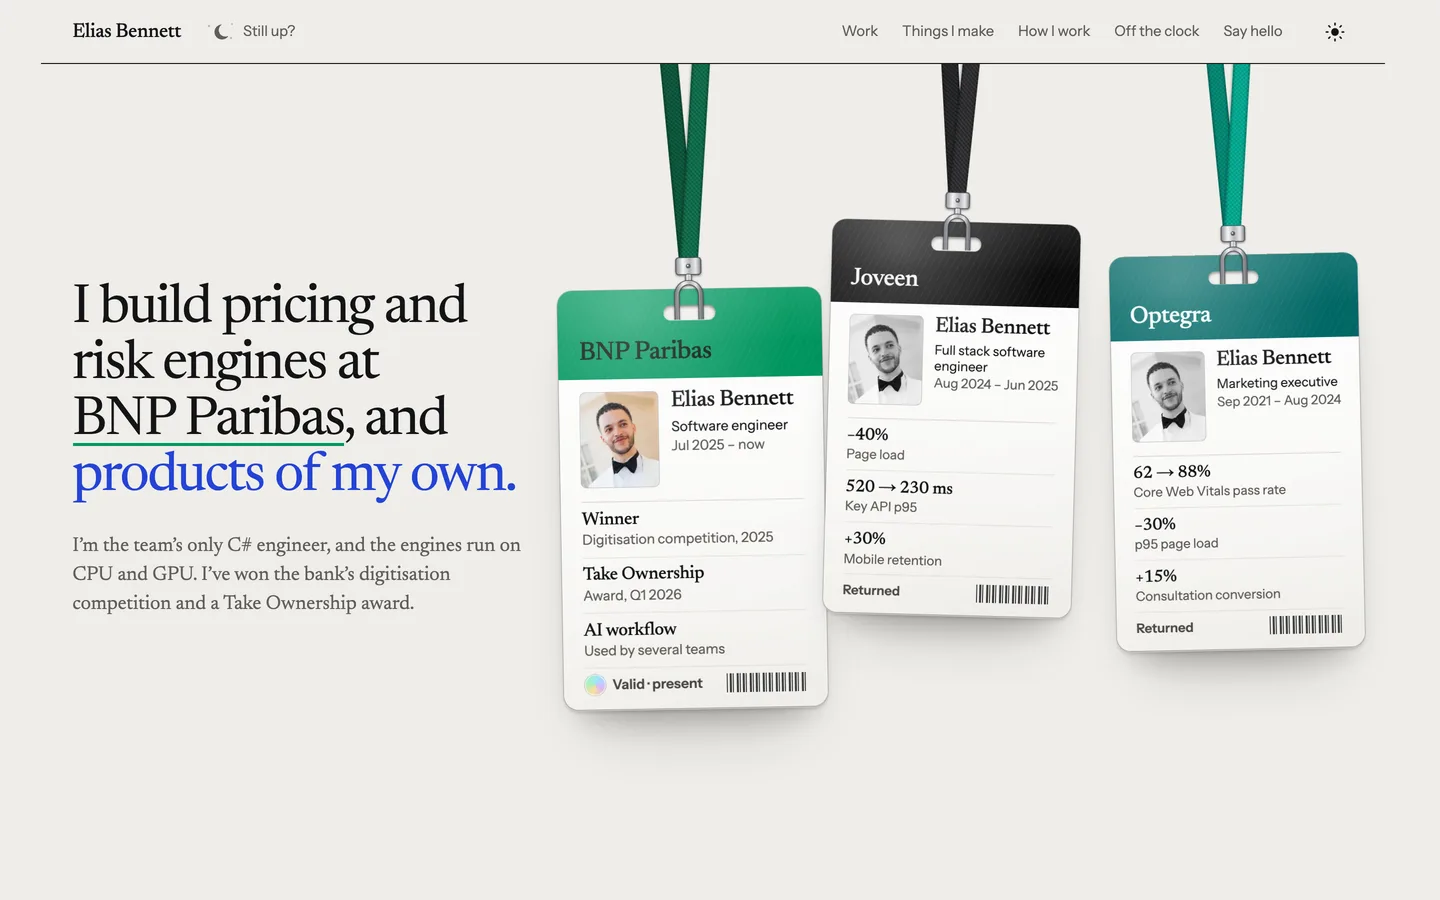
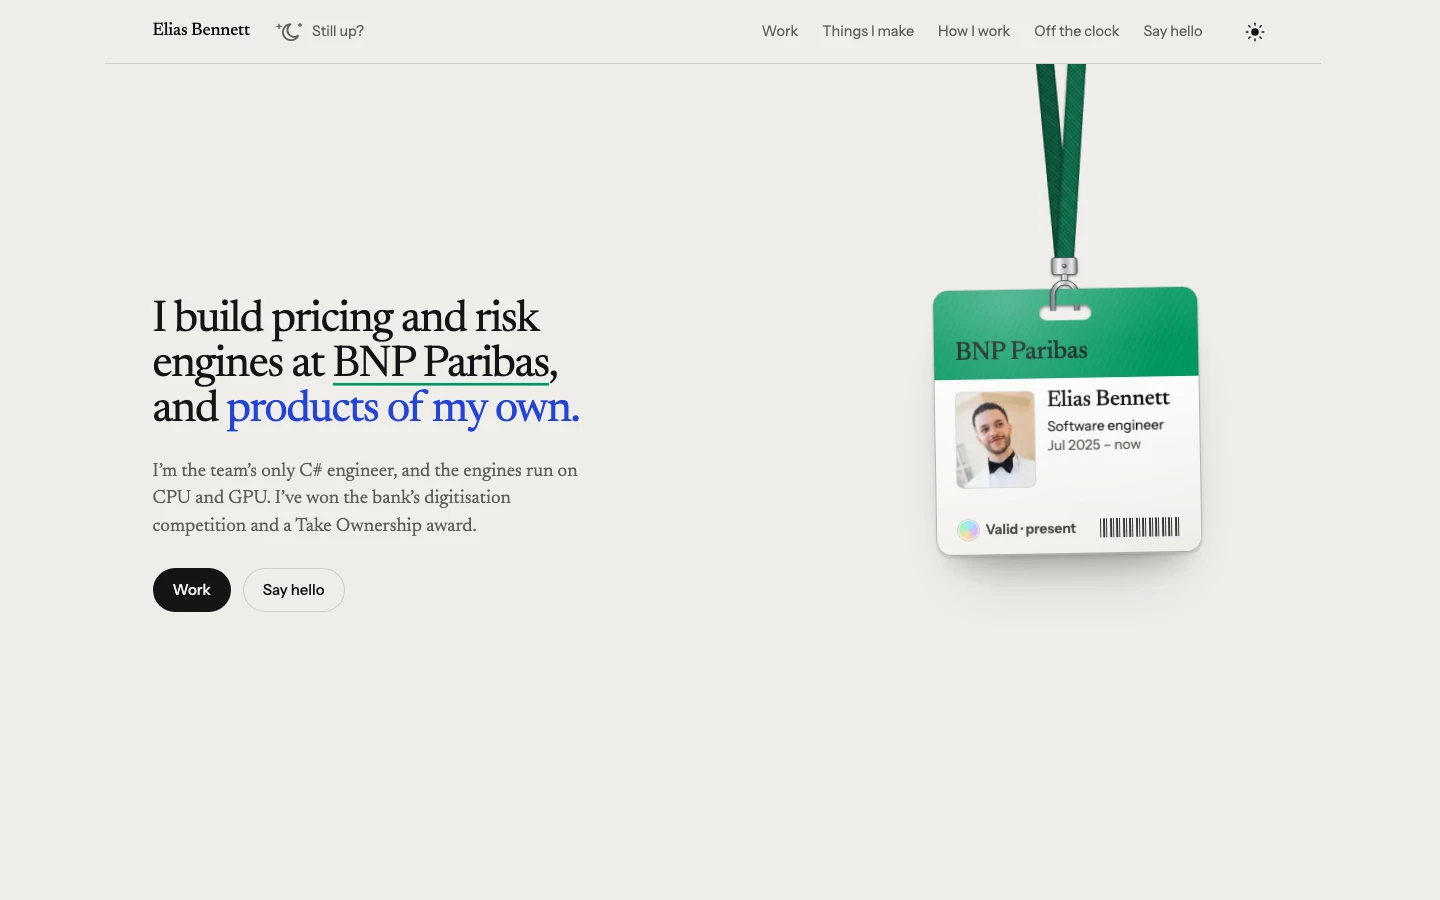
Update README, homepage screenshots and audit record after final pass

Changed region(s): [[0.0312, 0.0311, 0.9688, 0.7467], [0.4062, 0.56, 0.5625, 0.84], [0.0625, 0.0311, 0.25, 0.0622]]

diff --git a/README.md b/README.md
@@ -2,15 +2,15 @@
 
 The source of [eliasb.dev](https://www.eliasb.dev), my personal site: what I build, how I work, and what my time looks like away from the keyboard.
 
-![The homepage at desktop width in the light theme: the headline "I build pricing and risk engines at BNP Paribas, and products of my own." beside three staff passes hanging on lanyards, for BNP Paribas, Joveen and Optegra.](docs/screenshots/passes-and-panels-desktop-light.webp)
+![The homepage at desktop width in the light theme: the headline "I build pricing and risk engines at BNP Paribas, and products of my own." beside my current BNP Paribas staff pass hanging on a green lanyard.](docs/screenshots/passes-and-panels-desktop-light.webp)
 
-I designed the site as **passes and panels**. The first screen is my opening line and the staff passes from my three employers, drawn as real ID cards with their points printed on them. After that, each subject has a panel sized by how much it matters, in its own colour, with its proof drawn on it: a simulation, bars to scale, a screenshot. The page is complete from its first frame, and nothing moves unless it means something. The terms I use in the code and docs are defined in [`GLOSSARY.md`](GLOSSARY.md), and the design contract is [`docs/design/DESIGN.md`](docs/design/DESIGN.md).
+I designed the site as **passes and panels**. The first screen is my opening line and my current **Staff pass** (BNP Paribas), hanging from the header as a real ID card (and in 3D where WebGL 2 is available). After that, each subject has a panel sized by how much it matters, in its own colour, with its proof drawn on it: bars to scale, a simulation, a working slice of a product, or a framed screenshot. The page is complete from its first frame, and nothing moves unless it means something. The terms I use in the code and docs are defined in [`GLOSSARY.md`](GLOSSARY.md), and the design contract is [`docs/design/DESIGN.md`](docs/design/DESIGN.md).
 
 | Light | Dark |
 | --- | --- |
-| <img src="docs/screenshots/passes-and-panels-phone-light.webp" alt="The homepage at phone width in the light theme: the same headline above the three staff passes." width="260"> | <img src="docs/screenshots/passes-and-panels-phone-dark.webp" alt="The homepage at phone width in the dark theme, with the same headline and passes on a near-black page." width="260"> |
+| <img src="docs/screenshots/passes-and-panels-phone-light.webp" alt="The homepage at phone width in the light theme: the opening headline and actions above the BNP Paribas staff pass." width="260"> | <img src="docs/screenshots/passes-and-panels-phone-dark.webp" alt="The homepage at phone width in the dark theme, with the same headline and BNP Paribas staff pass on a near-black page." width="260"> |
 
-![The homepage at desktop width in the dark theme, with the same headline and staff passes on a near-black page.](docs/screenshots/passes-and-panels-desktop-dark.webp)
+![The homepage at desktop width in the dark theme, with the opening headline beside the BNP Paribas staff pass on a near-black page.](docs/screenshots/passes-and-panels-desktop-dark.webp)
 
 ## How the site changed
 
@@ -38,7 +38,7 @@ A well-kept studio wall that I pin things to: the work pinned carefully and clea
 
 ![Stretch: a neutral page with "ELIAS BENNETT" in huge cobalt condensed capitals, the headline "I build pricing and risk engines at BNP Paribas, and products of my own.", and a tilted portrait labelled "Based in London".](docs/screenshots/history/stretch.webp)
 
-A neutral page with one cobalt accent used large, a condensed display face at poster scale, each project in the colours of its own interface, and a two-act typed entrance. My employment came to lead the site, with a Role story for each employer. It grew by addition: every pass added a well-made object and none took one away, until the homepage was a stack of set pieces. The quiet index keeps the content and the data layer, and adds a [removal rule](docs/design/DESIGN.md#the-removal-rule) so the page stays small.
+A neutral page with one cobalt accent used large, a condensed display face at poster scale, each project in the colours of its own interface, and a two-act typed entrance. My employment came to lead the site, with a Role story for each employer. It grew by addition: every pass added a well-made object and none took one away, until the homepage was a stack of set pieces. The quiet index kept the content and the data layer, and introduced a removal rule ([`QUIET-INDEX.md`](docs/design/history/QUIET-INDEX.md)) so the page stayed small.
 
 ### The quiet index (October to November 2026)
 
@@ -48,32 +48,34 @@ One 600 px reading column, one 300 px margin, rows instead of set pieces, closer
 
 ### Passes and panels (November 2026 to now)
 
-The live site, at the top of this page. The passes are the first thing you see, and each subject's proof is drawn on its panel rather than hidden behind a word. The quiet index's content, data layer and length budget carry over.
+The live site, at the top of this page. The opening hangs the single current BNP Paribas pass, and each subject draws its proof directly on its panel rather than hiding it behind a hover or click. Refined in late November 2026 with full-bleed tonal bands, concentric optical bezels, sticky chapter rails on long-form pages, and a full readiness audit ([`docs/review/APP-AUDIT.md`](docs/review/APP-AUDIT.md)).
 
 ## What is on the site
 
 | Route | What it is |
 | --- | --- |
-| `/` | The homepage: an opening line, then Work, Things I make, How I work, Off the clock and Say hello. It is complete from its first frame. |
-| `/work/bnp-paribas`, `/work/joveen`, `/work/optegra` | Role stories: one page per employer, opening on its staff pass, with its figures drawn on panels in its colour. |
-| `/things-i-make` | The archive of every project, newest first. `/work` redirects here. |
-| `/things-i-make/threshold`, `/things-i-make/argus-risk`, `/things-i-make/flowtime` | Case studies, each a short visual story with a write-up and a PRD. |
-| `/resume` | The résumé, with a PDF (`public/Elias-Bennett-Resume.pdf`) that a check keeps in step with the page. |
+| `/` | The homepage: the opening and current Staff pass, then Work, Things I make, Where I'm headed & How I work, Off the clock, and Say hello. Complete from its first frame. |
+| `/work/bnp-paribas`, `/work/joveen`, `/work/optegra` | Role stories: one page per employer, opening on its coloured hero and hanging Staff pass, with a sticky chapter rail, Problem and Decision cards, to-scale comparisons and BNP Paribas's Monte Carlo simulation. |
+| `/things-i-make` | The Work archive of every project, newest first. `/work` redirects here permanently. |
+| `/things-i-make/threshold`, `/things-i-make/argus-risk`, `/things-i-make/flowtime` | Case studies: an open-ground header above a project-coloured exhibition stage, sticky chapter rail, interactive working figures and a PRD card. |
+| `/resume` | The résumé sheet, with a committed PDF (`public/Elias-Bennett-Resume.pdf`) that `pnpm verify:resume` keeps in step with the page. |
 | `/index.md`, `/llms.txt` | The homepage as Markdown, and a plain-text guide for language models. |
-| 404 | A custom not-found page that shows the address that was missed and five places to go. |
+| 404 | A custom not-found page with a Visitor pass showing the address asked for and five links back to the homepage. |
 
-`/about` redirects to `/#work`, and `/lab` and `/library` redirect to `/#off-the-clock`, so old links keep working.
+`/about` redirects to `/#work`, `/lab` and `/library` redirect to `/#off-the-clock`, `/work` and `/work/<case-study>` redirect to `/things-i-make`, and `/favicon.ico` redirects to `/icon1.png`.
 
-**Off the clock** is the only section driven by outside data. It opens with a year of my GitHub contributions, then shows my training week (authored), what I'm reading (Goodreads), what I last watched (Letterboxd), a curiosity from this week in history (Wikipedia's "On this day" feeds), and what I'm making now.
+**Off the clock** is the only section driven by outside data. It opens with Today's workout (authored 7-day schedule and running photo), then what I'm reading (Goodreads) and last watched (Letterboxd), a curiosity from this week in history (Wikipedia's "On this day" and Commons), and GitHub, the past year (with What I'm building now above the contribution grid).
 
 ## Stack
 
 - [Next.js](https://nextjs.org) 16 (App Router) and React 19, written in TypeScript
-- Tailwind CSS 4 for the reset, with the design in plain CSS on custom properties (`src/app/tokens.css`, `parts.css` and a stylesheet per section)
-- Newsreader and Instrument Sans through `next/font` (the Résumé sheet keeps Bricolage Grotesque and JetBrains Mono, which its PDF is drawn in)
-- [Motion](https://motion.dev) for the shared spring that every moving object uses
-- The light and dark setting runs from a small inline script, so the page is served finished and nothing is held at first paint
-- [Playwright](https://playwright.dev) and axe for end-to-end, accessibility and contrast tests
+- Tailwind CSS 4 for the reset, with the design in plain CSS custom properties (`src/app/tokens.css`, `parts.css`, and route-split stylesheets)
+- Self-hosted Newsreader (subsetted variable Latin WOFF2) and Instrument Sans through `next/font`, used across the whole site including the Résumé sheet and PDF
+- [Three.js](https://threejs.org) for the interactive 3D Staff pass, loaded lazily after first interaction or idle so first paint stays fast, with a CSS printed pass fallback
+- CSS custom-property curves (`--out`, `--spring`) for UI motion; [`motion`](https://motion.dev) is a dev-only dependency used by `verify:springs`
+- [`@vercel/speed-insights`](https://vercel.com/docs/speed-insights) on the free tier for real-visitor performance data (no cookies)
+- A small inline script sets light or dark before paint, so nothing flashes or waits on hydration
+- [Playwright](https://playwright.dev) and [`@axe-core/playwright`](https://github.com/dequelabs/axe-core-npm) for end-to-end, visual, forced-colours and WCAG 2.2 AA accessibility tests
 - pnpm 10 and Node 24, deployed on Vercel
 
 The architecture decisions are in [`docs/adr/`](docs/adr).
@@ -117,13 +119,13 @@ Each signal is fetched on the server, never in the browser, with a short timeout
 | Reading | Goodreads RSS | 30 minutes | "Between books." |
 | Last watched | Letterboxd RSS | 15 minutes | "Nothing logged yet." |
 | This week in history | Wikipedia "On this day" and Commons image metadata | 7 days | Saved examples, labelled as such |
-| Now making | The latest public GitHub repository | with the page | Nothing: the row is hidden |
+| Now making | The latest pushed public GitHub repository | 6 hours | Row is omitted (falls back to GitHub profile link if the year is also down) |
 
 The homepage itself revalidates every 15 minutes. The contracts are in [`docs/integrations/SIGNALS.md`](docs/integrations/SIGNALS.md) and the troubleshooting steps in [`docs/runbooks/integration-fallbacks.md`](docs/runbooks/integration-fallbacks.md).
 
 ## Tests
 
-End-to-end tests run against a production build, so build first. The suite covers the first frame, sections, Off the clock, theme, contrast, phone layouts, closer looks, Role stories, case studies, the archive, the résumé, redirects and the 404, with axe on the main pages. It runs in Chromium and WebKit at 320, 390, 820 and 1440 px wide, in light and dark: 16 projects, so run only what you need.
+End-to-end tests run against a production build, so build first. The suite covers first paint, layout shift, motion, forced colours, worst-case data, theme, contrast, phone layouts, Work, Things I make, How I work, Off the clock, Role stories, Case studies, the archive, the résumé, redirects and the 404, with axe (WCAG 2.2 AA) on every public route and interactive open state. It runs in Chromium and WebKit at 320, 390, 820 and 1440 px wide, in light and dark: 16 projects, so run only what you need.
 
 ```bash
 SITE_INDEXABLE=true pnpm build
@@ -133,23 +135,32 @@ pnpm exec playwright test --project=chromium-1440-light e2e/work-archive.spec.ts
 
 Playwright starts `pnpm start` itself on port 3100 (change it with `E2E_PORT`) and sets `BOARD_FIXTURES=1`, which turns on the `/fixtures` pages some specs use. Locally it runs one worker at a time; [`docs/runbooks/local-testing.md`](docs/runbooks/local-testing.md) says what to run and what to avoid on a laptop.
 
-The removal rule is enforced by tests: `e2e/homepage-signoff.spec.ts` fails if the homepage outgrows its length budget or anything but the margin is wider than the column, and `pnpm verify:retired` fails if a retired part of an earlier design comes back.
+`e2e/homepage-signoff.spec.ts` enforces the homepage's length budget (9 screens at 1440 × 900, 12 at 390 × 844), and `pnpm verify:retired` fails if a retired font, token or component from an earlier design comes back.
 
-Other checks, which CI also runs. `pnpm check` runs the first group together:
+Static and build checks run by CI (`pnpm check` runs the first group together):
 
 ```bash
-pnpm lint
-pnpm exec tsc --noEmit
-pnpm verify:signals      # signal adapters and their fallbacks
-pnpm verify:catalogue    # the project catalogue
-pnpm verify:copy         # every string matches docs/content/redesign-copy.md
-pnpm verify:springs      # the site spring matches Motion
-pnpm verify:retired      # nothing retired has come back
-pnpm verify:resume       # the résumé PDF matches the page
-pnpm check:built         # canonical routes and release markup (needs a build)
+pnpm lint                    # eslint with --max-warnings 0
+pnpm exec tsc --noEmit       # strict TypeScript (no unused locals or parameters)
+pnpm verify:signals          # signal adapters, history cache and fallbacks
+pnpm verify:catalogue        # project catalogue and links
+pnpm verify:copy             # site and machine surfaces match docs/content/redesign-copy.md
+pnpm verify:simulation       # Monte Carlo simulation invariants
+pnpm verify:flowtime-break   # Flowtime break calculation
+pnpm verify:springs          # spring module matches Motion's spring
+pnpm verify:craft            # spacing, press, feedback and focus tokens match DESIGN.md
+pnpm verify:type-scale       # type scale and 13 px floor
+pnpm verify:retired          # nothing retired has come back
+pnpm verify:share-assets     # committed share-card assets are fresh
+pnpm verify:resume           # the résumé PDF matches /resume
+pnpm verify:link-check       # offline tests for the weekly external link check
+pnpm verify:playwright-image # Playwright Docker image tag matches pnpm-lock.yaml
+pnpm verify:ci-coverage      # every verify script is wired into CI
+pnpm check:built             # canonical routes, release headers and JS budget (needs a build)
+pnpm verify:first-load       # first-load bytes on a Turbopack build
 ```
 
-CI (`.github/workflows/quality.yml`) builds with webpack (`SITE_INDEXABLE=true pnpm build --webpack`) and splits the Playwright matrix into eight shards. Before pushing to or merging a pull request, read [`docs/runbooks/merging.md`](docs/runbooks/merging.md).
+CI (`.github/workflows/quality.yml`) runs `pnpm check` and `pnpm verify:codex-gate`, checks `pnpm check:built` on a webpack build and `pnpm verify:first-load` on a Turbopack build, and splits the Playwright matrix into eight shards. A separate weekly workflow (`.github/workflows/link-check.yml`) checks external links against production. Before pushing to or merging a pull request, read [`docs/runbooks/merging.md`](docs/runbooks/merging.md).
 
 ## Project documents
 
@@ -157,9 +168,10 @@ CI (`.github/workflows/quality.yml`) builds with webpack (`SITE_INDEXABLE=true p
 - [`docs/design/DESIGN.md`](docs/design/DESIGN.md): the live design contract, and [`docs/design/history/`](docs/design/history) for the directions it replaced
 - [`docs/content/redesign-copy.md`](docs/content/redesign-copy.md): the approved copy
 - [`docs/content/IMAGE-CREDITS.md`](docs/content/IMAGE-CREDITS.md): where each image comes from
+- [`docs/review/APP-AUDIT.md`](docs/review/APP-AUDIT.md): the latest readiness audit, Lighthouse medians and CI gates
 - [`docs/adr/`](docs/adr): architecture decisions
-- [`docs/runbooks/`](docs/runbooks): local testing, merging and integration fallbacks
-- `docs/discovery`, `docs/review` and the earlier specs are history from earlier designs and are kept for reference
+- [`docs/runbooks/`](docs/runbooks): local testing, merging, interruption walk, visual baselines and integration fallbacks
+- `docs/discovery`, `docs/review` and the earlier specs are history from earlier designs and passes, kept for reference
 
 ## Licence and images
 

diff --git a/docs/review/APP-AUDIT.md b/docs/review/APP-AUDIT.md
@@ -1,8 +1,8 @@
 # App audit
 
 - **Date:** 26 November 2026
-- **Commit:** `14f4a40` on `main`, as served at `https://www.eliasb.dev`
-- **Pass:** the final pass ([#533](https://github.com/3ixas/eliasb.dev/issues/533)), closed by [#545](https://github.com/3ixas/eliasb.dev/issues/545). The diagnosis and its findings are in [2026-11-25-final-pass/FINDINGS.md](2026-11-25-final-pass/FINDINGS.md): 43 findings, 42 picked, F-03 declined by design.
+- **Commit:** `14f4a40` on `main` (pass close); performance follow-up verified at `7bfdea6`, as served at `https://www.eliasb.dev`
+- **Pass:** the final pass ([#533](https://github.com/3ixas/eliasb.dev/issues/533)), closed by [#545](https://github.com/3ixas/eliasb.dev/issues/545), with load-time follow-up [#572](https://github.com/3ixas/eliasb.dev/issues/572) closed at `7bfdea6`. The diagnosis and its findings are in [2026-11-25-final-pass/FINDINGS.md](2026-11-25-final-pass/FINDINGS.md): 43 findings, 42 picked, F-03 declined by design.
 
 ## Areas
 
@@ -13,7 +13,7 @@
 | Stateful risks | Not applicable | No accounts, forms or saved server state. The screenshot viewer's open and cancel race (F-01) is fixed and tested |
 | Accessibility | Pass | axe reports 0 violations on every public route and the open states, at 390 and 1440 px in both themes, in CI. No screen reader or physical device was used |
 | Responsive craft, consistency and copy | Fixed | The picked craft, motion and writing findings; worst-case data check extended to the newer components |
-| Performance | Accepted gap | See below; follow-up [#572](https://github.com/3ixas/eliasb.dev/issues/572) |
+| Performance | Fixed | Both remaining load-time targets met at `7bfdea6` ([#572](https://github.com/3ixas/eliasb.dev/issues/572), [#573](https://github.com/3ixas/eliasb.dev/pull/573), [#574](https://github.com/3ixas/eliasb.dev/pull/574)); see below |
 | Security | Fixed | Next.js 16.4.5 clears seven moderate advisories ([#551](https://github.com/3ixas/eliasb.dev/pull/551)); `Cross-Origin-Opener-Policy` added. No dedicated security audit ran |
 | Types and code | Fixed | F-34 to F-38; unused locals and parameters fail `tsc`, and lint allows no warnings |
 
@@ -45,15 +45,28 @@ Lighthouse 12.8.2, mobile, simulated throttling, sequential runs against product
 
 Transfer and JS are summed from each run's network requests; compare them with the baseline's as indicative only.
 
+### Performance follow-up (`#572`, `7bfdea6`)
+
+Measured on production at `7bfdea6` after [#573](https://github.com/3ixas/eliasb.dev/pull/573) (route-split CSS, trimmed homepage payload, prioritised archive LCP image) and [#574](https://github.com/3ixas/eliasb.dev/pull/574) (stopped the 404 leaking onto every route, added `verify:first-load` on Turbopack). Same method: Lighthouse 12.8.2, mobile, simulated throttling, 15 sequential runs per route on the same M1 laptop, no discarded runs.
+
+| Measure | Before (`14f4a40`) | After (`7bfdea6`, median of 15) | Range | Target |
+|---|---|---|---|---|
+| `/` LCP | 2.70 s | **2.13 s** | 1.53–2.49 s | under 2.5 s |
+| `/things-i-make` LCP load delay (F-32) | 589 ms | **409 ms** | 0–786 ms | under 500 ms |
+
+- Load delay: 11 of 15 archive runs were under 500 ms (the target is on the median).
+- `/` document and CSS transferred fell from ~50.9 KB to 42.2 KB.
+- CLS stayed `0.000` on both routes; TBT medians were `60 ms` on `/` (range 18–561 ms; was `258 ms` at baseline) and `23 ms` on `/things-i-make`.
+
 ### Targets
 
-The target set on 25 November (D1) was LCP at most 2.0 s on the Role stories and about 2.5 s elsewhere. On 26 November Elias set **about 2.5 s for every route**, then accepted the two gaps below.
+The target set on 25 November (D1) was LCP at most 2.0 s on the Role stories and about 2.5 s elsewhere. On 26 November Elias set **about 2.5 s for every route**; both remaining gaps closed in [#572](https://github.com/3ixas/eliasb.dev/issues/572):
 
-- **LCP:** met on seven routes. `/` is 2.70 s over 15 runs. An earlier set of 5 at `8c183f2` had a median of 2.23 s; single runs cluster near 2.0 s and 2.7 s. The time is render delay on the opening heading.
+- **LCP:** met on all eight routes (`/` median `2.13 s` at `7bfdea6`, all 15 runs 1.53–2.49 s; the other seven routes 1.95–2.41 s at `14f4a40`).
 - **CLS at most 0.05:** met, 0.000 everywhere.
-- **TBT not worse than baseline:** far lower on `/` and the Role stories. The archive and case studies are 8 to 23 ms higher, with single runs spread from 8 to 51 ms.
+- **TBT not worse than baseline:** far lower on `/` (`60 ms` vs `258 ms`) and the Role stories. The archive (`23 ms`) and case studies (`28–42 ms`) sit within a few milliseconds of baseline.
 - **Lanyard TBT under 100 ms (F-12):** met on `/` and BNP Paribas.
-- **Archive image load delay under 500 ms (F-32):** 589 ms median [26–1249]. Accepted; in [#572](https://github.com/3ixas/eliasb.dev/issues/572).
+- **Archive image load delay under 500 ms (F-32):** met, `409 ms` median [0–786] over 15 runs at `7bfdea6`.
 
 ## Walkthrough
 
@@ -72,6 +85,7 @@ All run in the `Quality` workflow.
 |---|---|
 | `standing-checks` axe | Every public route and the open states, 390 and 1440 px, both themes, WCAG 2.2 AA |
 | `verify:release` | Opener policy, lanyard caching, favicon redirect, share-card addresses |
+| `verify:first-load` | First-load document and CSS bytes on a Turbopack production build ([#574](https://github.com/3ixas/eliasb.dev/pull/574)) |
 | `worst-case.spec.ts` | Long values stay inside their boxes in the newer components |
 | `verify:copy` | The machine-readable surfaces match the copy deck |
 | `verify:catalogue` | Every project has a link |
@@ -80,4 +94,4 @@ All run in the `Quality` workflow.
 
 ## CI
 
-The 8-shard production Playwright matrix and the `quality` job passed on `main` at `14f4a40` ([run 45836528514](https://github.com/3ixas/eliasb.dev/actions/runs/45836528514)). The stronger axe gate arrives with this record's pull request, [#567](https://github.com/3ixas/eliasb.dev/pull/567); it passed on `4441fa4` ([run 45826633784](https://github.com/3ixas/eliasb.dev/actions/runs/45826633784)).
+The 8-shard production Playwright matrix and the `quality` job passed on `main` at `14f4a40` ([run 45836528514](https://github.com/3ixas/eliasb.dev/actions/runs/45836528514)), on `4441fa4` for [#567](https://github.com/3ixas/eliasb.dev/pull/567) ([run 45826633784](https://github.com/3ixas/eliasb.dev/actions/runs/45826633784)), and at `7bfdea6` after [#572](https://github.com/3ixas/eliasb.dev/issues/572) ([run 45887007678](https://github.com/3ixas/eliasb.dev/actions/runs/45887007678)). Intermittent WebKit retries observed in CI are tracked in [#575](https://github.com/3ixas/eliasb.dev/issues/575).
